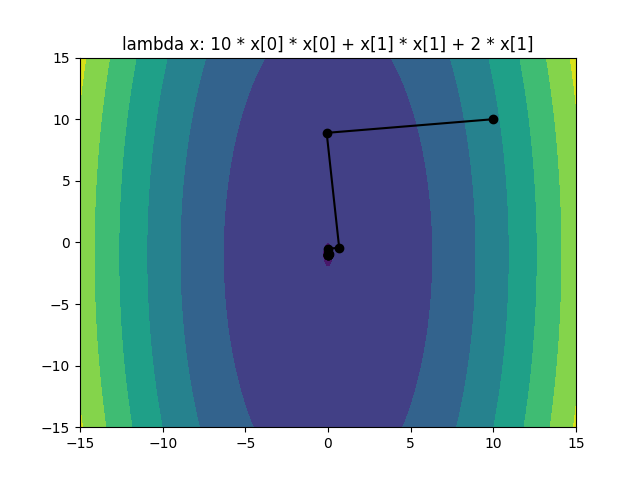
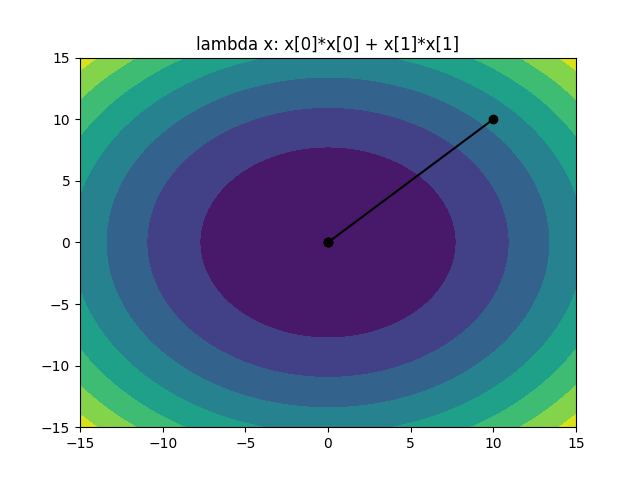
use another function for trajectory

diff --git a/lab1/trajectory.py b/lab1/trajectory.py
@@ -14,14 +14,13 @@ def makeData(func, x_range):
     return xgrid, zgrid
 
 
-all_f = ["lambda x: 10 * x[0] * x[0] + x[1] * x[1] + 2 * x[1]",
-         "lambda x: x[0] * x[0] + 20 * x[1] * x[1]",
-         "lambda x: -1 / (1 + x[0]*x[0] + x[1]*x[1])"]
-start = [np.array([10, 10.]), np.array([3, -3.]), np.array([3, -3.])]
-extremum = [np.array([0, -1.]), np.array([0, 0.]), np.array([0, 0.])]
+all_f = ["lambda x: x[0]*x[0] + x[1]*x[1]",
+         "lambda x: 10 * x[0] * x[0] + x[1] * x[1] + 2 * x[1]",
+         "lambda x: x[0] * x[0] + 20 * x[1] * x[1]"]
+start = [np.array([10., 10.]), np.array([10., 10.]), np.array([10, 10.])]
 x_ranges = [[np.arange(-15, 15.05, 0.05), np.arange(-15, 15.05, 0.05)],
-            [np.arange(-5, 5.05, 0.05), np.arange(-5, 5.05, 0.05)],
-            [np.arange(-5, 5.05, 0.05), np.arange(-5, 5.05, 0.05)]]
+            [np.arange(-15, 15.05, 0.05), np.arange(-15, 15.05, 0.05)],
+            [np.arange(-15, 15.05, 0.05), np.arange(-15, 15.05, 0.05)]]
 
 method_constructors = [DichotomyMethod, GoldenSectionMethod, FibonacciMethod]
 eps = 0.001
